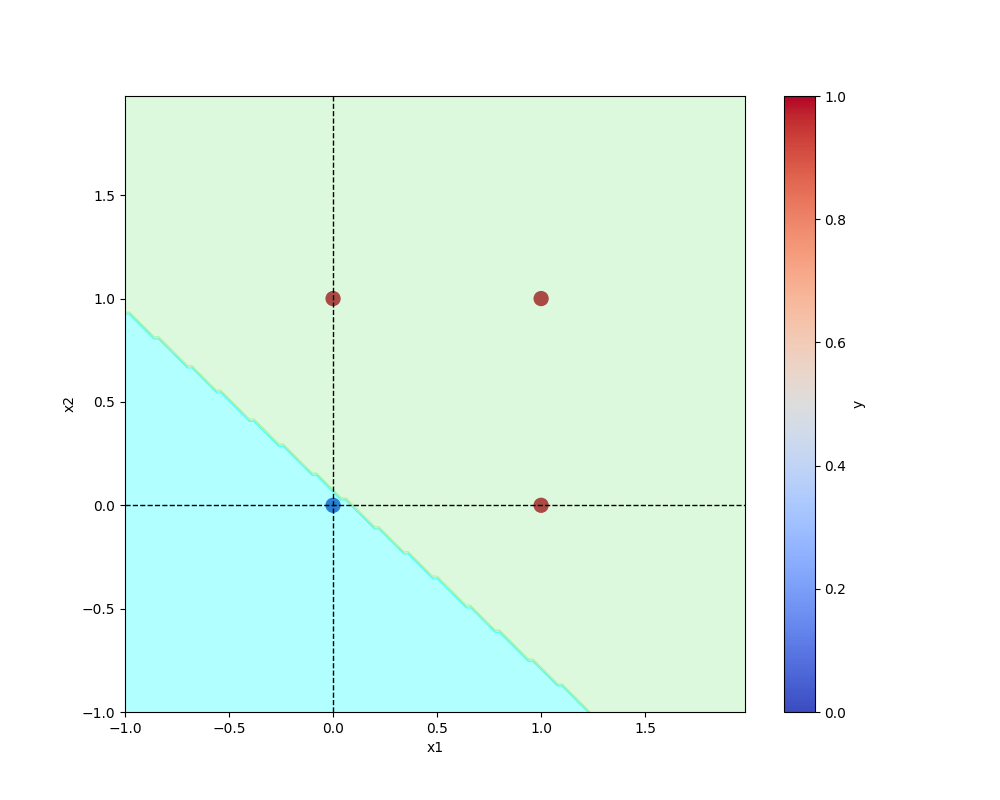
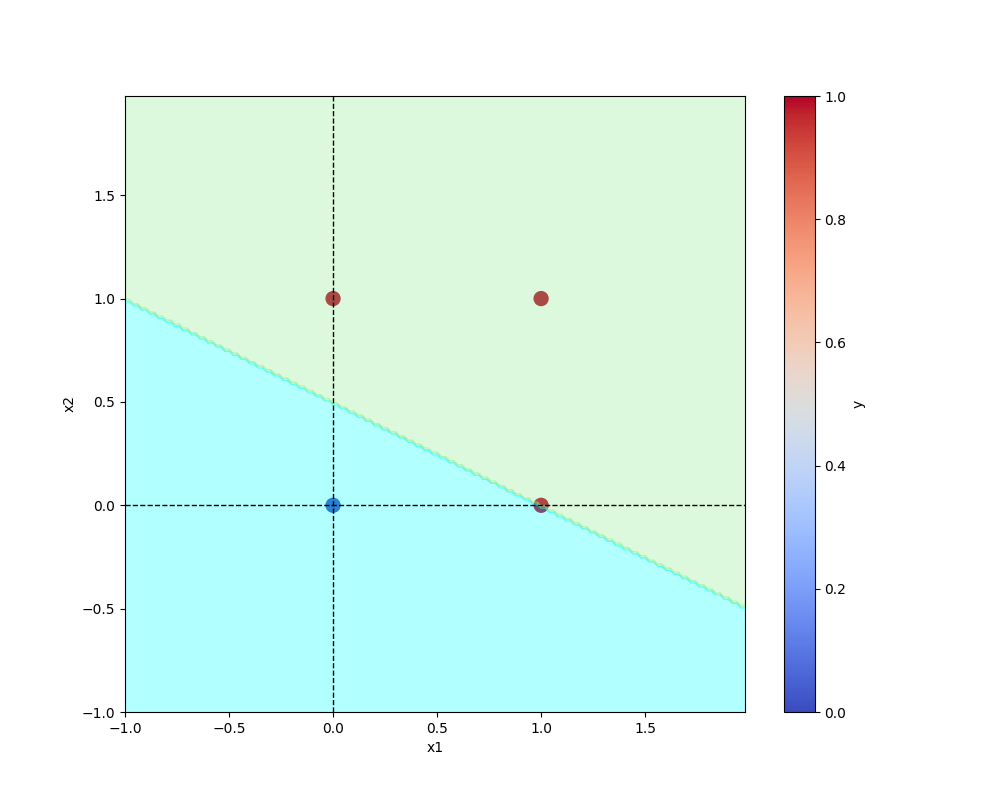
and model created

Changed region(s): [[0.124, 0.375, 0.744, 0.9062]]

diff --git a/and.py b/and.py
@@ -1,0 +1,26 @@
+from utils.all_utils import prepare_data, save_plot
+from utils.models import Perceptron
+import pandas as pd
+
+
+def main(data, modelName, plotName, eta, epochs):
+    df_AND = pd.DataFrame(data)
+    X, y = prepare_data(df_AND)
+
+    model = Perceptron(eta=eta, epochs=epochs)
+    model.fit(X, y)
+
+    _ = model.total_loss()
+
+    model.save(filename=modelName, model_dir="model")
+    save_plot(df_AND, model, filename=plotName)
+
+if __name__ == "__main__":
+    AND = {
+        "x1": [0,0,1,1],
+        "x2": [0,1,0,1],
+        "y" : [0,0,0,1]
+    }
+    ETA = 0.3
+    EPOCHS = 10
+    main(data=AND, modelName="and.model", plotName="and.png", eta=ETA, epochs=EPOCHS)
